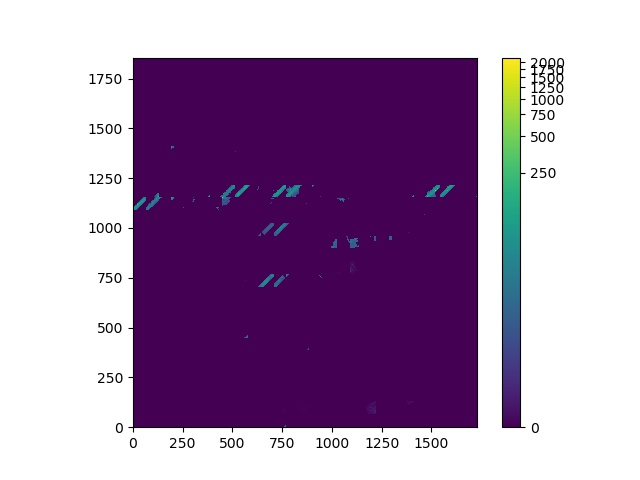
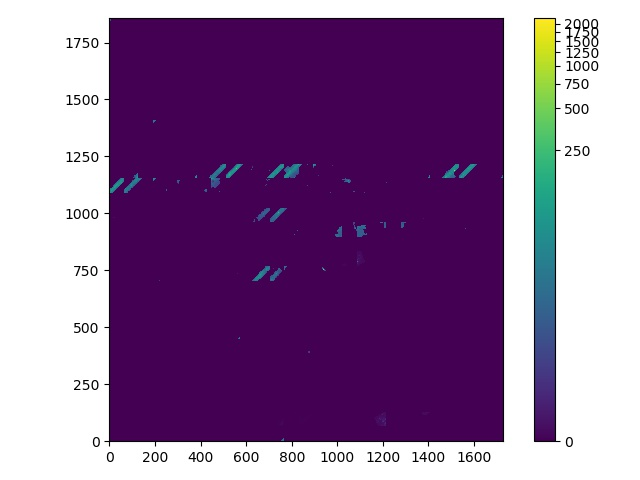
update

diff --git a/tile_orientation/tile_orientation.py b/tile_orientation/tile_orientation.py
@@ -12,6 +12,7 @@ norm = simple_norm(data, 'linear', min_cut=0, max_cut=data.max())
 plt.figure()
 plt.imshow(data, origin='lower', norm=norm)
 plt.colorbar()
+plt.tight_layout()
 plt.savefig('Allsky_from_JPG.jpg')
 
 meta_fits = HipsTileMeta(order=3, ipix=497, file_format='fits')
@@ -22,6 +23,7 @@ norm = simple_norm(data, 'log', min_cut=0, max_cut=data.max())
 plt.figure()
 plt.imshow(data, origin='lower', norm=norm)
 plt.colorbar()
+plt.tight_layout()
 plt.savefig('Allsky_from_FITS.jpg')
 
 # meta_fermi = HipsTileMeta(order=3, ipix=-1, file_format='jpg')

diff --git a/tile_orientation/README.md b/tile_orientation/README.md
@@ -5,7 +5,7 @@ are up-down flipped in FITS format when compared to the JPEG and PNG format.
 
 ### Original all-sky image in JPG format
 
-<img src="https://github.com/hipspy/hips-extra/raw/master/datasets/samples/IRAC4/Norder3/Allsky.jpg" width="200">
+<img src="https://github.com/hipspy/hips-extra/raw/master/datasets/samples/IRAC4/Norder3/Allsky.jpg" width="400">
 
 ### All-sky image in JPG format from the script
 
